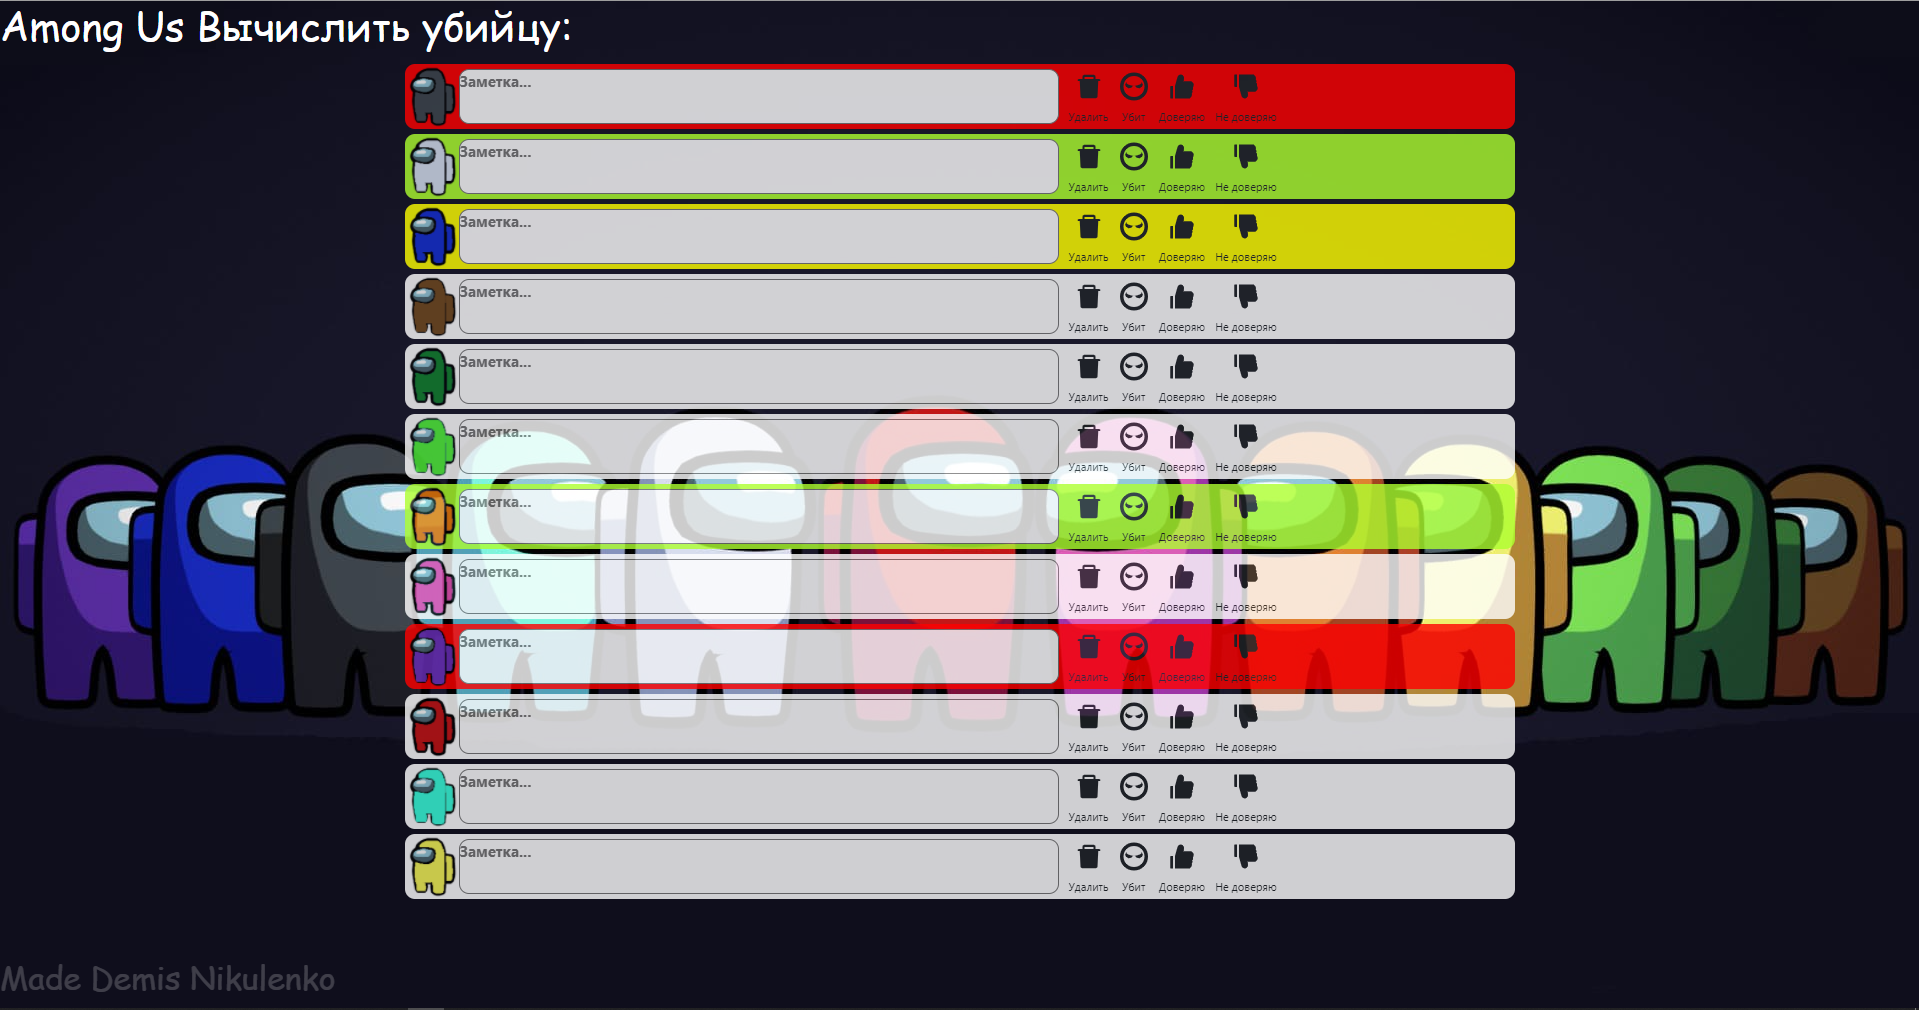
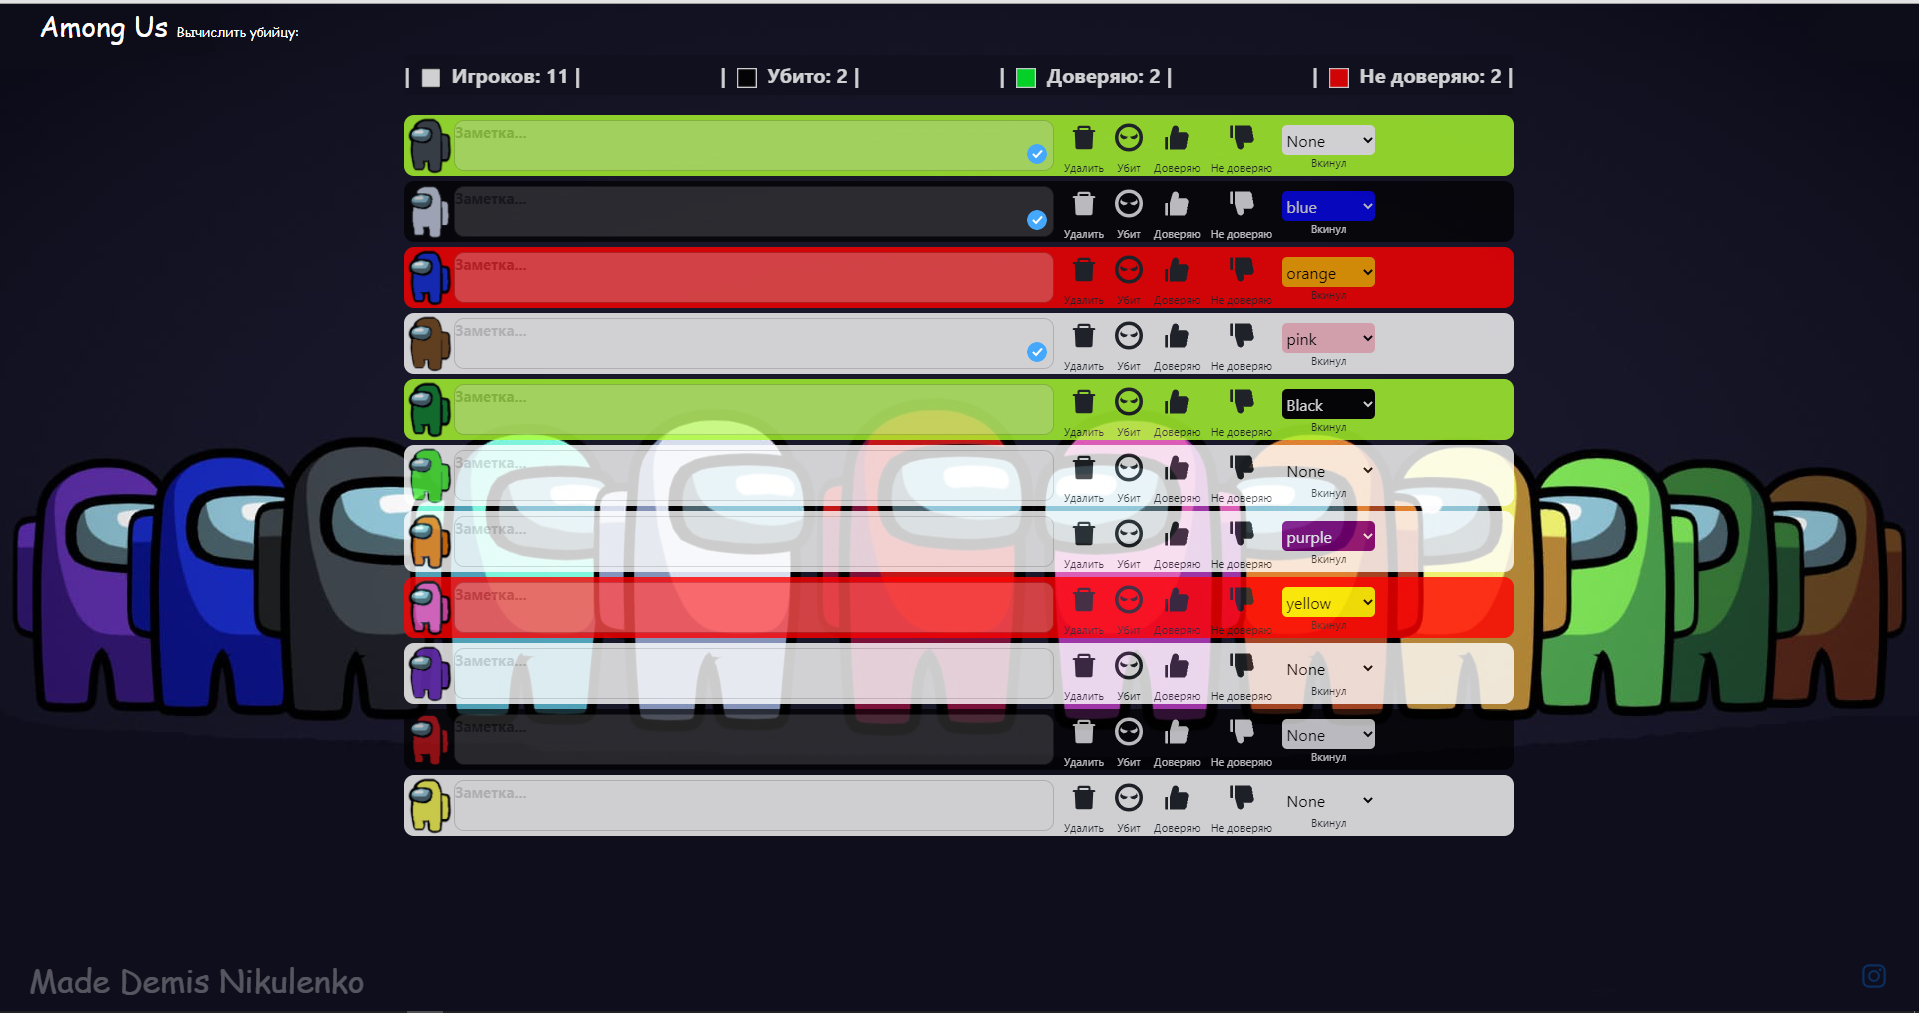
update styles

diff --git a/src/components/main/main.scss b/src/components/main/main.scss
@@ -1,3 +1,23 @@
+.info-counter {
+    display: flex;
+    flex-direction: row;
+    justify-content: space-between;
+    margin-bottom: 20px;
+    color: white;
+    font-size: 20px;
+    font-weight: bold;
+    border-radius: 2px;
+    opacity: 0.8;
+    padding: 5px 0;
+    min-width: 150px;
+    background: #100F1D;
+
+    img {
+        width: 20px;
+        margin: 0 5px;
+    }
+}
+
 .item-people {
     // border: 1px solid grey;
     margin-bottom: 5px;
@@ -5,10 +25,13 @@
     background: white;
     opacity: 0.8;
     border-radius: 10px;
+    &:hover{
+        opacity: 0.9;
+    }
 
     img {
         opacity: 1;
-        max-width: 60px;
+        max-width: 50px;
         max-height: 65px;
     }
 
@@ -17,12 +40,16 @@
         border-radius: 10px;
         color: black;
         font-weight: bold;
-
         min-width: 600px;
         max-height: 60px;
         font-size: 15px;
         resize: none;
-     }
+        opacity: 0.3;
+        
+        &:focus {
+            opacity: 1;
+        }
+    }
 
      .icons-item {
         opacity: 1;
@@ -36,8 +63,6 @@
         }
     }
 
-    
-
     .action-player {
         align-items: center;
         margin-left: 10px;
@@ -47,9 +72,6 @@
             font-size: 11px;
         }
     }
-
-
-
 }
 
 .killed {

diff --git a/src/components/main/statsCounter/statsCounter.js b/src/components/main/statsCounter/statsCounter.js
@@ -1,0 +1,19 @@
+import React from 'react';
+import blockBlack from "../../image/block-black.png";
+import blockGreen from "../../image/block-green.png";
+import blockRed from "../../image/block-red.png";
+import blockWhite from "../../image/block-white.png";
+
+const StatsCounter = ({counterStats}) => {
+    const {counterPlayers, counterKilled, counterBelieve, counterDontBellieve } = counterStats;
+    return (
+        <div className="info-counter">
+            <span> | <img src={blockWhite} alt="block-white" /> Игроков: {counterPlayers} | </span>
+            <span> | <img src={blockBlack} alt="block-black" /> Убито: {counterKilled} |  </span>
+            <span> | <img src={blockGreen} alt="block-green" /> Доверяю: {counterBelieve} | </span>
+            <span> | <img src={blockRed} alt="black-block-red" /> Не доверяю: {counterDontBellieve} | </span>
+        </div>
+    );
+}
+
+export default StatsCounter;

diff --git a/src/components/header/header.js b/src/components/header/header.js
@@ -1,18 +1,11 @@
 import React from 'react';
 import './header.scss';
 
-const Header = ({counterStats}) => {
-    const {counterPlayers, counterKilled, counterBelieve, counterDontBellieve } = counterStats;
-    
+const Header = props => {
+
     return(
         <div className="header">
-            <h1>Among Us Вычислить убийцу:</h1>
-            <div className="info-counter">
-                <span>Игроков: {counterPlayers} </span>
-                <span>Убито: {counterKilled} </span>
-                <span>Доверяю: {counterBelieve} </span>
-                <span>Не доверяю: {counterDontBellieve} </span>
-            </div>
+            <h3>Among Us <span>Вычислить убийцу:</span></h3>
         </div>
     );
 

diff --git a/src/components/main/main.js b/src/components/main/main.js
@@ -1,12 +1,14 @@
 import React from 'react';
 import ItemsPeople from "./itemPeople"
+import StatsCounter  from "./statsCounter/statsCounter"
 import "./main.scss"; 
 
-const Main = ({peoples, btns, onToogleAction}) => {
-
+const Main = ({peoples, btns, onToogleAction, counterStats}) => {
+console.log(counterStats)
     return(
         <div className="main">
             <div className="container-peoples">
+                <StatsCounter counterStats={counterStats} />
                <ItemsPeople peoples={peoples} btns={btns} onToogleAction={onToogleAction}  /> 
             </div>
         </div>

diff --git a/src/components/header/header.scss b/src/components/header/header.scss
@@ -1,20 +1,10 @@
 .header {
-    margin: 10px 40px;
+    margin: 5px 40px;
     display: flex;
     justify-content: space-between;
     font-family: Snell Roundhand, cursive;
     color: white;
-}
-
-.info-counter {
-    display: flex;
-    flex-direction: column;
-    padding-left: 15px;
-    color: black;
-    font-style: 16px;
-    font-weight: bold;
-    border-radius: 15px;
-    opacity: 0.8;
-    width: 150px;
-    background: white;
+    span {
+        font-size: 13px;
+    }
 }

diff --git a/src/components/App.js b/src/components/App.js
@@ -82,6 +82,7 @@ export default class App extends Component {
                 />
                 <Container>
                     <Main
+                        counterStats={counterStats}
                         peoples={this.state.players}
                         btns={this.state.btns}
                         onToogleAction={this.onToogleAction}

diff --git a/src/components/App.css b/src/components/App.css
@@ -9,9 +9,7 @@ html,body {
  
 }
 
-.main {
-  margin-top: 15px;
-}
+
 
 .footer {
   font-family: Snell Roundhand, cursive;
@@ -20,8 +18,8 @@ html,body {
 	left: 0;
 	bottom: 0;
 	width: 100%;
-  height: 40px;
+  height: 20px;
   background: #0F0E1C;
-  opacity: 0.2;
-  margin: 10px;
+  opacity: 0.3;
+  margin: 30px;
 }

diff --git a/src/components/footer/footer.scss b/src/components/footer/footer.scss
@@ -15,5 +15,4 @@
 
 .iconInst:hover{
     width: 60px;
-
 }
